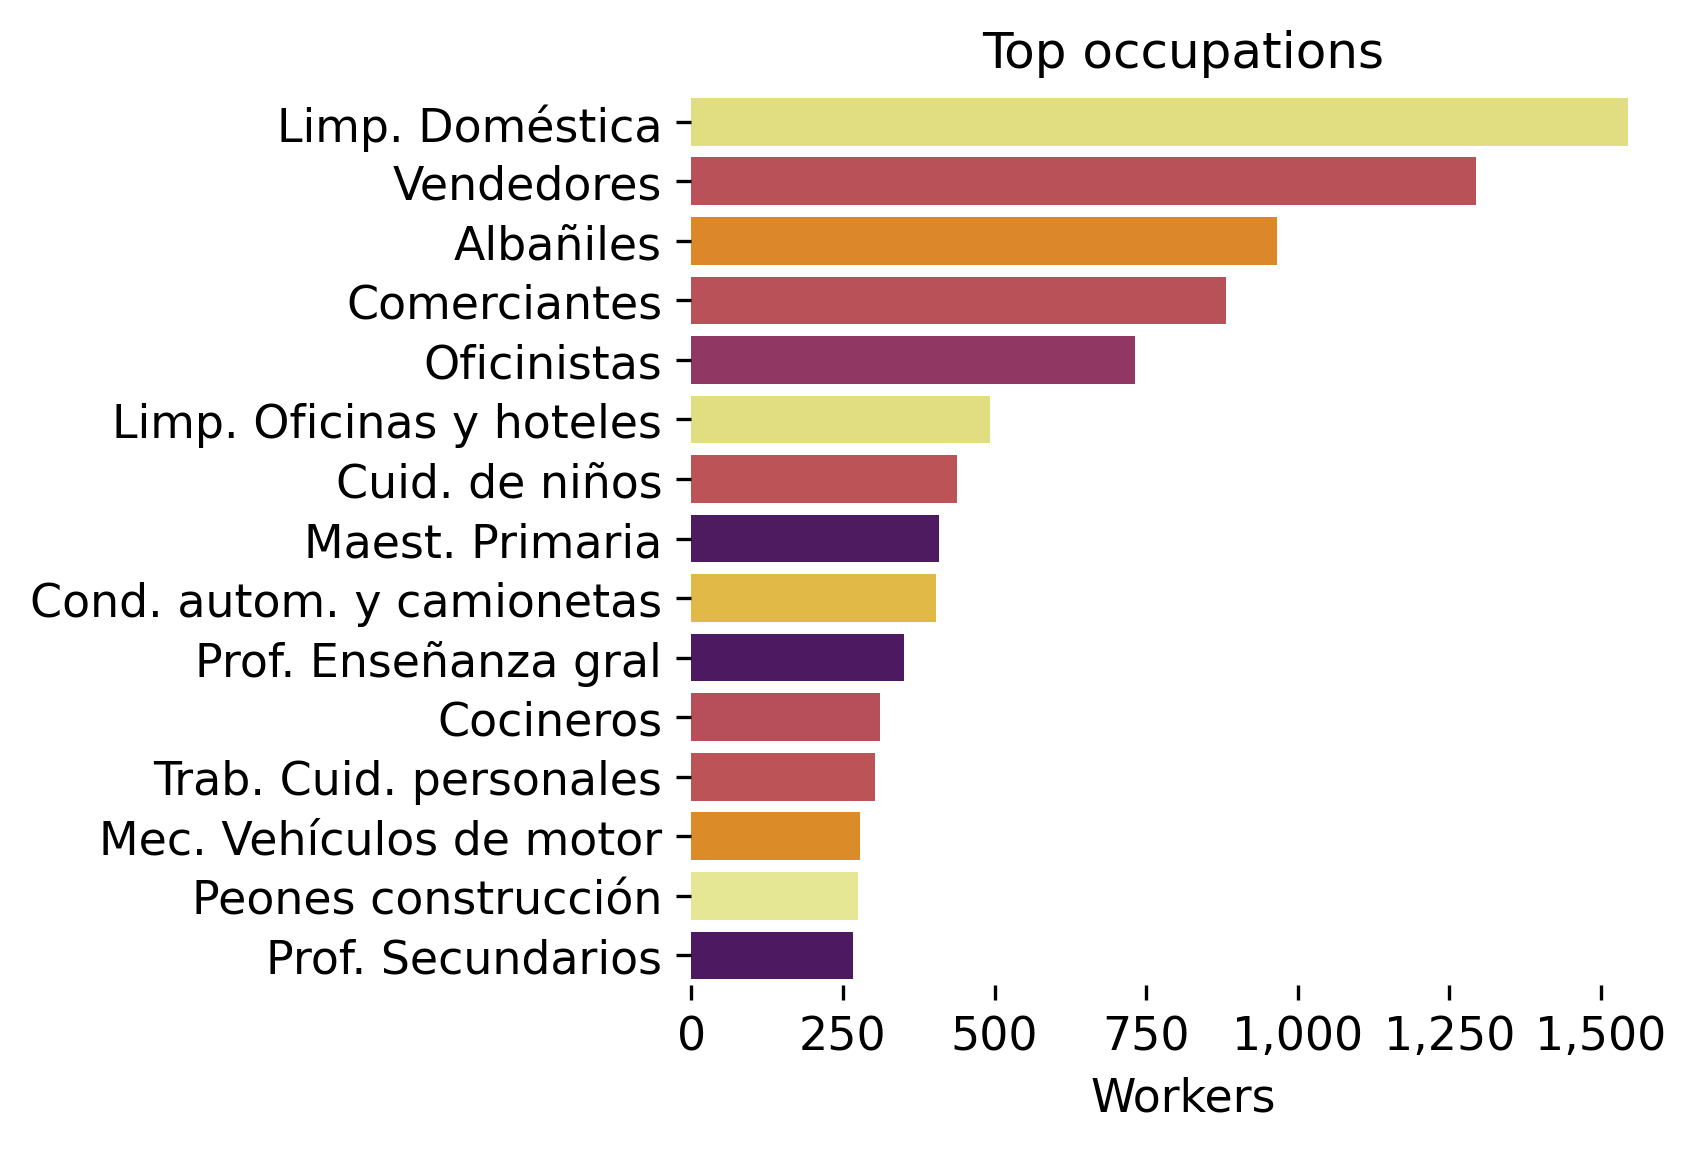
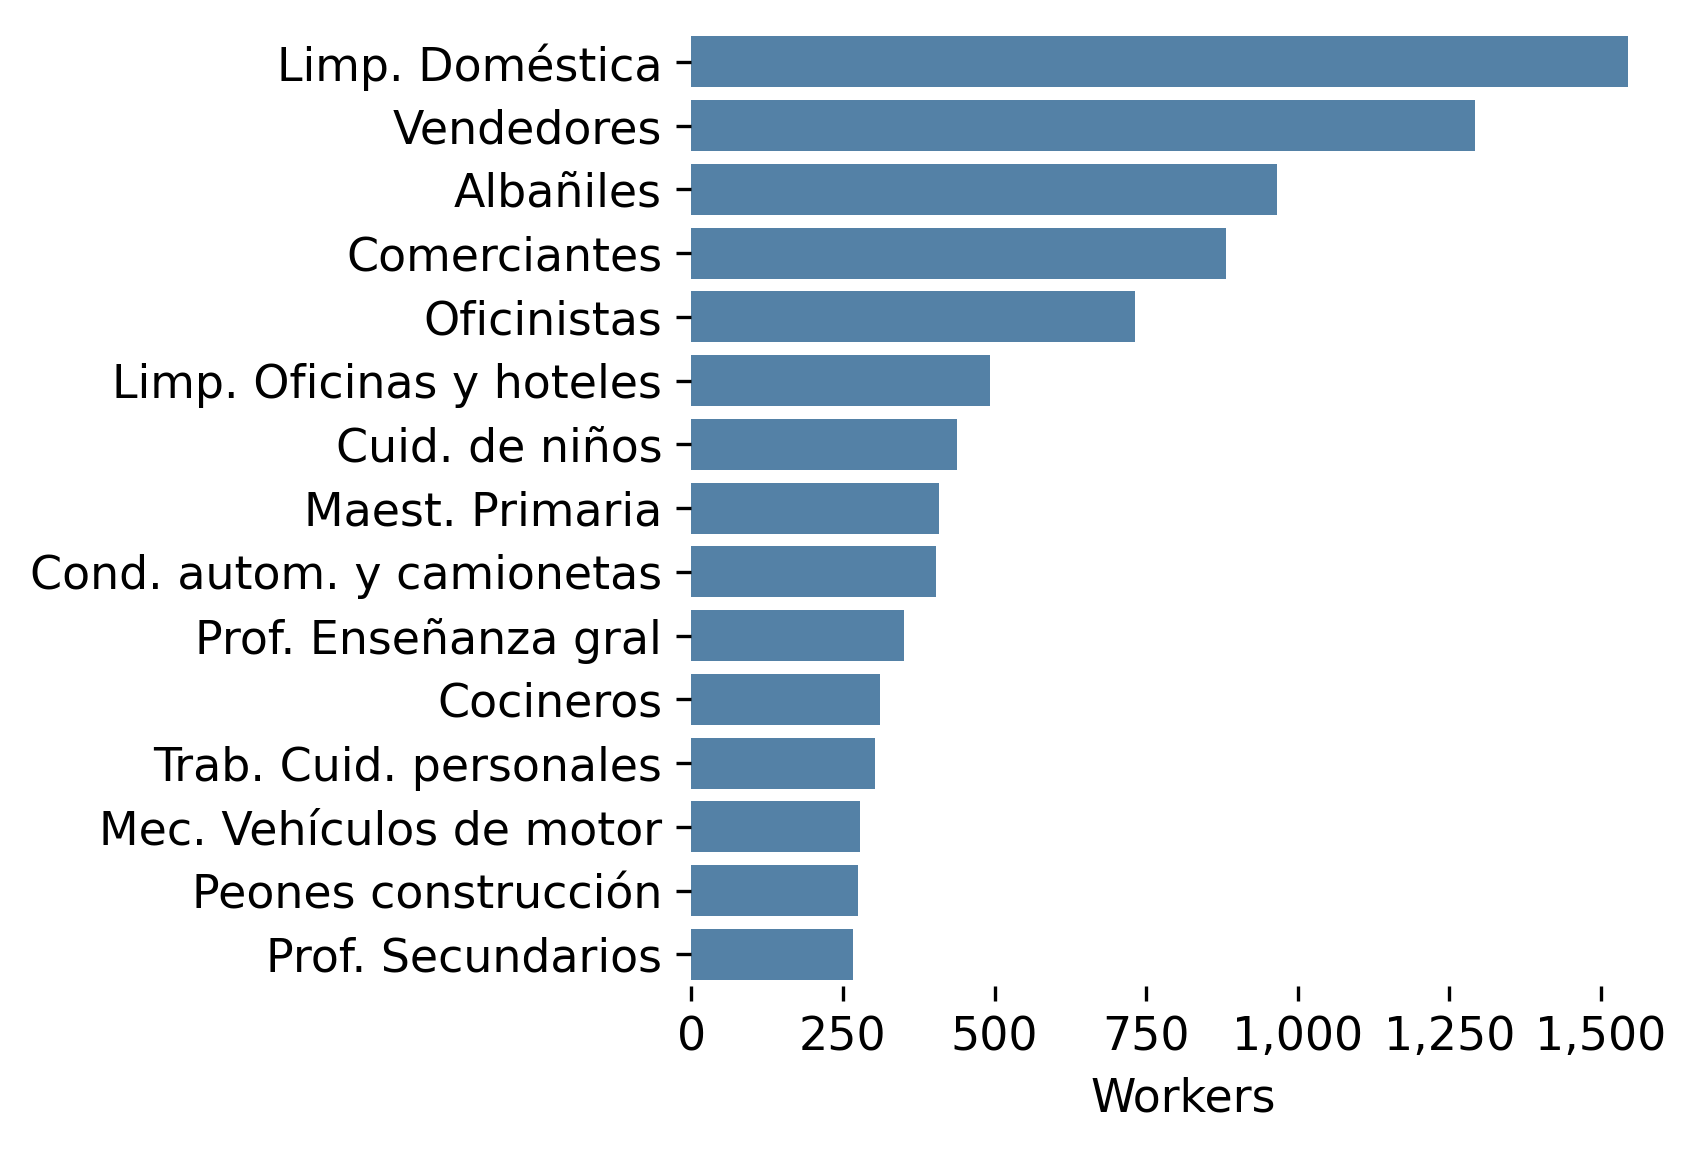
Update visualizations and remove titles from plots for cleaner presentation

diff --git a/scripts/02_bipartite_plot_by_groups.py b/scripts/02_bipartite_plot_by_groups.py
@@ -29,9 +29,8 @@ def main() -> None:
 	for _, row in caes_df.iterrows():
 		node_id = int(row[caes_id_col])
 		group_label = row.get(caes_group_col, None)
-		label_map_groups[node_id] = (
-			"Unknown" if pd.isna(group_label) else str(group_label)
-		)
+		if not pd.isna(group_label):
+			label_map_groups[node_id] = str(group_label)
 		color_value = row.get(caes_group_color_col, None)
 		if pd.notna(color_value):
 			color_map_global[node_id] = utils.parse_color(color_value)
@@ -39,18 +38,15 @@ def main() -> None:
 	for _, row in ciuo_df.iterrows():
 		node_id = int(row[ciuo_id_col])
 		group_label = row.get(ciuo_group_col, None)
-		label_map_groups[node_id] = (
-			"Unknown" if pd.isna(group_label) else str(group_label)
-		)
+		if not pd.isna(group_label):
+			label_map_groups[node_id] = str(group_label)
 		color_value = row.get(ciuo_group_color_col, None)
 		if pd.notna(color_value):
 			color_map_global[node_id] = utils.parse_color(color_value)
 
 	for node_id in bigraph.nodes():
-		if node_id not in color_map_global: #TODO: remove uknown label in the plot
+		if node_id not in color_map_global:
 			color_map_global[node_id] = pl.LIGTHGRAY
-		if node_id not in label_map_groups:
-			label_map_groups[node_id] = "Unknown"
 
 	caes_worker_counts = caes_df.set_index(caes_id_col)["n_obs"].to_dict()
 	ciuo_worker_counts = ciuo_df.set_index(ciuo_id_col)["n_obs"].to_dict()

diff --git a/src/plotting.py b/src/plotting.py
@@ -483,12 +483,13 @@ def draw_bipartite_by_color(
 	if label_map is not None:
 		for node in graph.nodes():
 			node_id = int(node)
-			lbl = label_map.get(node_id, str(node_id))
-			color = color_map.get(node_id, LIGTHGRAY)
-			if graph.nodes[node].get("bipartite") == ut.get_class_index("caes"):
-				caes_groups[lbl] = color
-			else:
-				ciuo_groups[lbl] = color
+			if node_id in label_map:
+				lbl = label_map[node_id]
+				color = color_map.get(node_id, LIGTHGRAY)
+				if graph.nodes[node].get("bipartite") == ut.get_class_index("caes"):
+					caes_groups[lbl] = color
+				else:
+					ciuo_groups[lbl] = color
 
 	def _make_handles(groups, marker_shape="o"):
 		ms = float(legend_marker_size) if legend_marker_size is not None else 11.0
@@ -1390,6 +1391,7 @@ def plot_top_n_bar(
 	ax.spines["right"].set_visible(False)
 	ax.spines["left"].set_visible(False)
 	ax.spines["bottom"].set_visible(False)
+	plt.tight_layout()
 
 	if save:
 		plt.savefig(output_path, dpi=300, bbox_inches="tight")

diff --git a/scripts/00_aed_report.py b/scripts/00_aed_report.py
@@ -16,8 +16,8 @@ def main() -> None:
 		df=df_nodelist_caes,
 		label_col=meta_caes["label"],
 		val_col="n_obs",
-		color_col=meta_caes["label_color"],
-		title="Top sectors",
+		color_col=None,
+		title=None,
 		xlabel="Workers",
 		figsize=snakemake.config["figsizes"]["top_n_bar"],
 		output_path=snakemake.output[0],
@@ -28,8 +28,8 @@ def main() -> None:
 		df=df_nodelist_ciuo,
 		label_col=meta_ciuo["label"],
 		val_col="n_obs",
-		color_col=meta_ciuo["label_color"],
-		title="Top occupations",
+		color_col=None,
+		title=None,
 		xlabel="Workers",
 		figsize=snakemake.config["figsizes"]["top_n_bar"],
 		output_path=snakemake.output[1],

diff --git a/scripts/06_sankey_plot.py b/scripts/06_sankey_plot.py
@@ -129,7 +129,7 @@ def main() -> None:
 		]
 	)
 	fig.update_layout(
-		title_text="Sankey: CIUO (1er dígito) → CAES (1er letra)",
+		title_text=None,
 		width=1200,
 		height=800,
 	)
